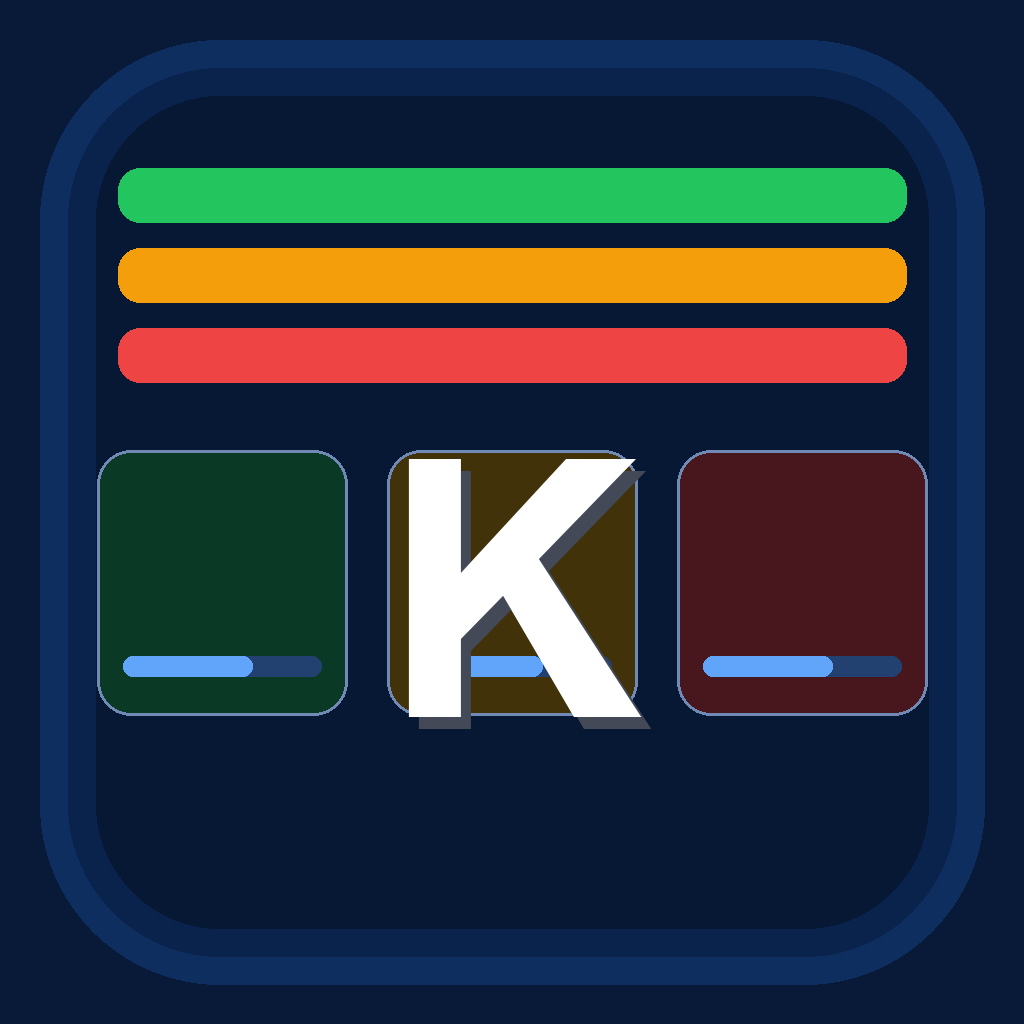
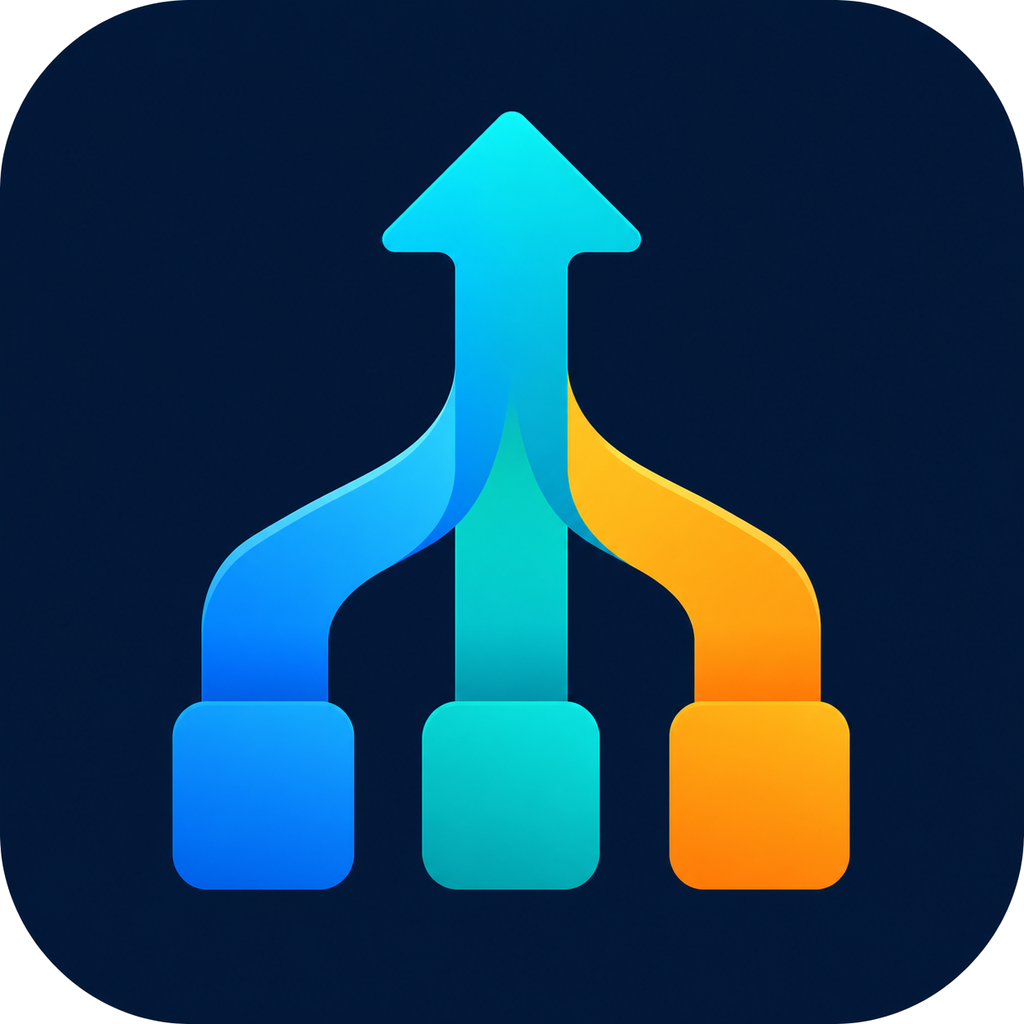
feat: renovar identidade visual e qualidade de portfólio

diff --git a/tests/test_producao_v2.py b/tests/test_producao_v2.py
@@ -2,6 +2,7 @@ from __future__ import annotations
 
 import json
 import sqlite3
+import sys
 import zipfile
 from dataclasses import replace
 from datetime import date, timedelta
@@ -21,7 +22,7 @@ from kanban_app.infrastructure.config import SmtpConfig
 from kanban_app.infrastructure.db.repositories import ProductionRepository
 from kanban_app.infrastructure.db.session import Database
 from kanban_app.infrastructure.services.station_runtime import StationRuntimeStore
-from kanban_app.main import _arguments, _uses_demo_mode
+from kanban_app.main import _application_icon_path, _arguments, _uses_demo_mode
 from kanban_app.presentation.widgets.op_form_dialog import OpFormDialog
 from kanban_app.presentation.main_window import MainWindow
 from kanban_app.presentation.widgets.personalization_dialog import PersonalizationDialog
@@ -135,6 +136,7 @@ def test_demo_reset_restores_exact_seed_without_touching_real_data(tmp_path: Pat
 
 
 def test_demo_arguments_and_toolbar_expose_safe_guidance(qtbot, tmp_path: Path):
+    assert _application_icon_path().is_file()
     assert _arguments(["--demo"]).demo
     assert _arguments(["--configure-role", "demo"]).configure_role == "demo"
     assert _uses_demo_mode(_arguments([]), StationRoleDTO(role="demo"))
@@ -145,12 +147,22 @@ def test_demo_arguments_and_toolbar_expose_safe_guidance(qtbot, tmp_path: Path):
     qtbot.addWidget(window)
     window._refresh_timer.stop()
     window._deadline_timer.stop()
-
     toolbar = window.findChild(QToolBar)
     labels = [action.text() for action in toolbar.actions()]
     assert "Guia da demonstração" in labels
     assert "Restaurar 10 OPs fictícias" in labels
     assert window.findChild(QLabel, "demoNotice").text().startswith("MODO DEMONSTRAÇÃO")
+
+
+def test_application_icon_path_uses_pyinstaller_bundle_assets(monkeypatch, tmp_path: Path):
+    bundle_assets = tmp_path / "assets"
+    bundle_assets.mkdir()
+    expected = bundle_assets / "producao_operacional.png"
+    expected.write_bytes(b"icon")
+    monkeypatch.setattr(sys, "frozen", True, raising=False)
+    monkeypatch.setattr(sys, "_MEIPASS", str(tmp_path), raising=False)
+
+    assert _application_icon_path() == expected
 
 
 def test_creation_allows_empty_fields_and_status_is_manual(tmp_path: Path):

diff --git a/src/kanban_app/main.py b/src/kanban_app/main.py
@@ -4,7 +4,7 @@ import argparse
 import sys
 from pathlib import Path
 
-from PySide6.QtGui import QGuiApplication
+from PySide6.QtGui import QGuiApplication, QIcon
 from PySide6.QtWidgets import QApplication
 
 from kanban_app.application.dto import StationRoleDTO
@@ -22,6 +22,17 @@ def _config_path(explicit: str | None) -> Path:
     if getattr(sys, "frozen", False):
         return Path(sys.executable).resolve().parent / "config" / "settings.json"
     return Path(__file__).resolve().parents[2] / "config" / "settings.json"
+
+
+def _application_icon_path() -> Path:
+    """Resolve o ícone distribuído tanto no código-fonte quanto no executável."""
+
+    if getattr(sys, "frozen", False):
+        # No PyInstaller em modo one-dir, arquivos adicionados ficam em
+        # sys._MEIPASS (normalmente _internal), não ao lado do .exe.
+        bundle_root = Path(getattr(sys, "_MEIPASS", Path(sys.executable).resolve().parent))
+        return bundle_root / "assets" / "producao_operacional.png"
+    return Path(__file__).resolve().parents[2] / "assets" / "producao_operacional.png"
 
 
 def _arguments(argv: list[str]) -> argparse.Namespace:
@@ -84,6 +95,7 @@ def run() -> int:
         return 0
     app = QApplication(sys.argv)
     app.setApplicationName("Produção Operacional — Demonstração" if demo_mode else "Produção Operacional")
+    app.setWindowIcon(QIcon(str(_application_icon_path())))
     apply_theme(app, container.runtime_store.load_theme_mode(container.config.theme_mode))
     role = launcher_runtime.load_role()
     window = MainWindow(container)

diff --git a/src/kanban_app/__init__.py b/src/kanban_app/__init__.py
@@ -1,1 +1,1 @@
-__version__ = "2.3.7"
+__version__ = "2.3.8"

diff --git a/README.md b/README.md
@@ -1,11 +1,14 @@
 # Produção Operacional
 
+<img src="assets/producao_operacional.png" width="112" alt="Ícone Produção Operacional">
+
 > Aplicação desktop Windows para organizar ordens de produção em estações de trabalho, painel TV/Foco e uma demonstração totalmente local.
 
 ![Python](https://img.shields.io/badge/Python-3.12%2B-3776AB?logo=python&logoColor=white)
 ![PySide6](https://img.shields.io/badge/Desktop-PySide6-41CD52?logo=qt&logoColor=white)
 ![SQLite](https://img.shields.io/badge/Data-SQLite-003B57?logo=sqlite&logoColor=white)
 ![Platform](https://img.shields.io/badge/Platform-Windows-0078D4?logo=windows&logoColor=white)
+![Testes](https://github.com/Mayconxzdev/ProducaoOperacional/actions/workflows/tests.yml/badge.svg)
 
 ![Tela de personalização de setores](assets/screenshots/personalizacao-setores.png)
 
@@ -18,6 +21,13 @@
 - **Demonstração:** ambiente seguro para apresentar e praticar o sistema com **10 OPs fictícias**, sem depender de rede, NAS, SMTP ou dados operacionais.
 
 O projeto enfatiza uma experiência direta para operação diária e uma arquitetura preparada para estações em rede: banco SQLite central configurável, cache local para leitura e configuração compartilhada onde isso faz sentido.
+
+<details>
+<summary><strong>English summary</strong></summary>
+
+Production Operations is a Windows desktop application built with Python, PySide6 and SQLite. It supports office workstations, a full-screen production dashboard and a fully isolated local demo mode with fictional data. The project demonstrates desktop UX, layered architecture, document import, resilient SQLite persistence, packaging and automated tests.
+
+</details>
 
 ## Destaques técnicos
 

diff --git a/CHANGELOG.md b/CHANGELOG.md
@@ -1,5 +1,11 @@
 # Histórico de versões
 
+## [2.3.8] - 2026-07-14
+
+- Novo ícone de produto baseado no fluxo de três etapas da operação, disponível no executável, nas janelas, nos atalhos e no instalador.
+- O empacotamento inclui os assets visuais necessários para que o ícone também apareça na aplicação congelada.
+- Corrigido o caminho do ícone na aplicação empacotada pelo PyInstaller.
+
 ## [2.3.7] - 2026-07-14
 
 - O instalador oferece três perfis explícitos: Escritório, TV/Foco e Demonstração.